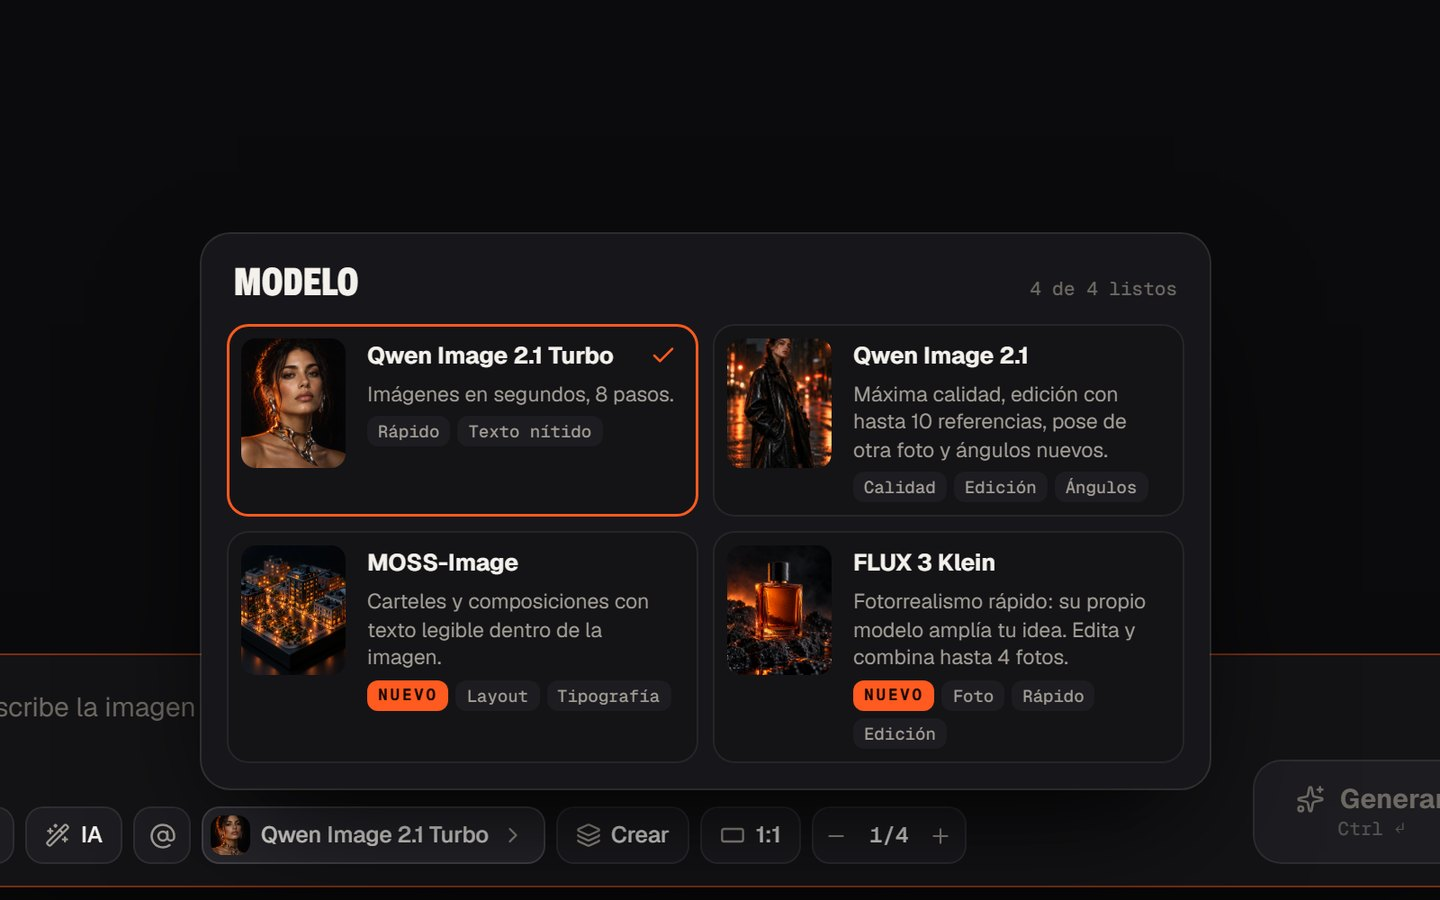
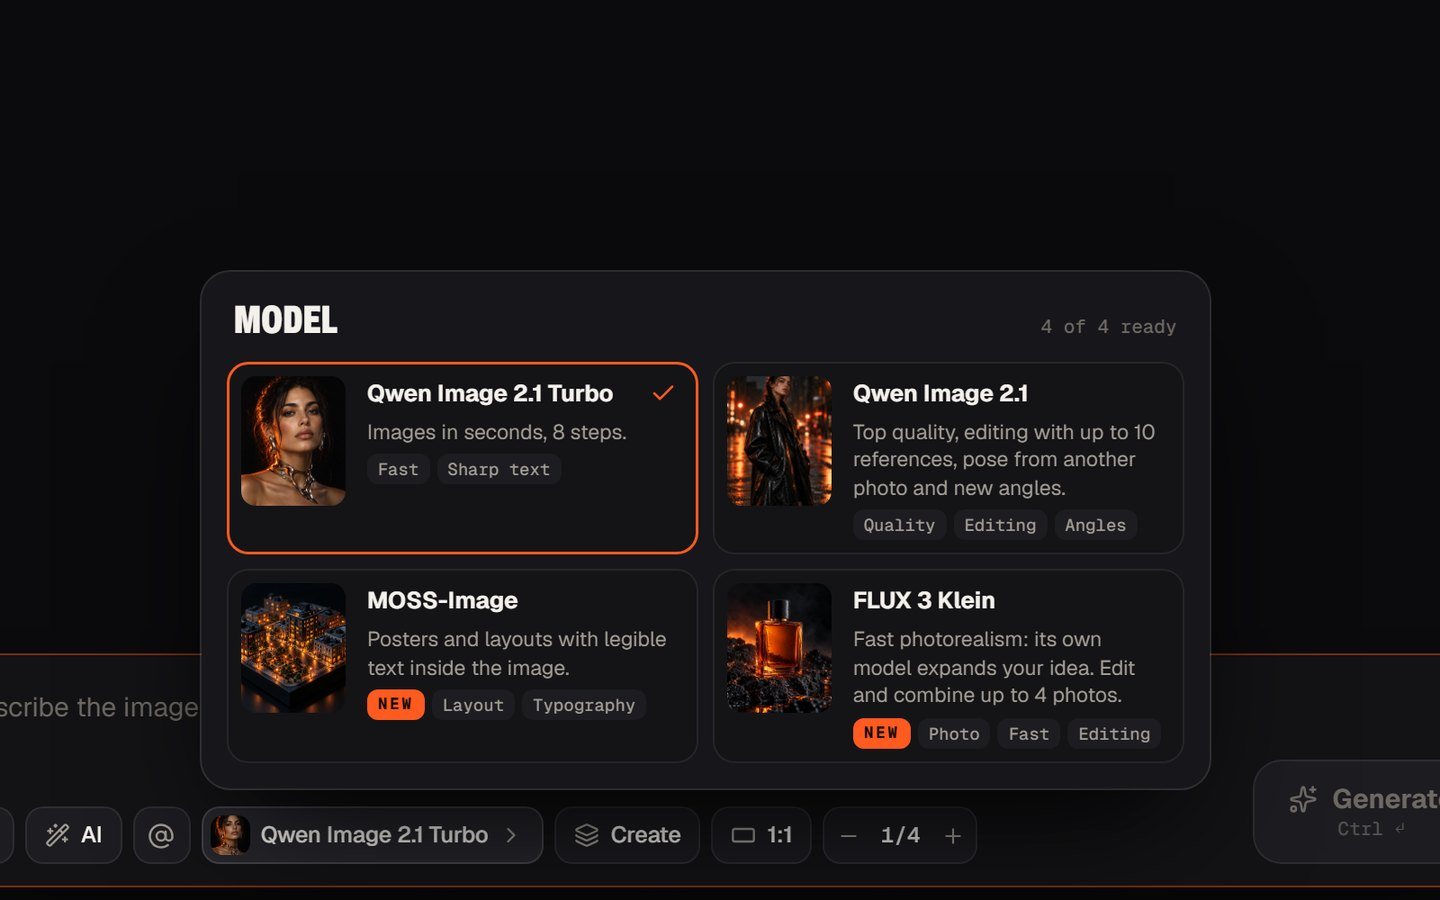
README: English screenshots and the 0.15-0.17 web features
Retake every UI screenshot in English (0.17.0 UI, demo data from
scripts/dev-qa.cjs) and bring the README up to date: English/Spanish UI,
the AI prompt button and drag-and-drop, the English menu names (AI,
Account > MCP connections) and links to the latest release notes.

diff --git a/README.md b/README.md
@@ -57,8 +57,10 @@ and an MCP server exposes the studio to Claude and other MCP clients.
 
 Plus: a persistent **library** of everything you make, private **characters** you can call with
 `@name` in any prompt, a per-account **LoRA library** (paste a Hugging Face or Civitai link;
-Qwen-Image 2.1 and MiniMax H3 LoRAs are detected and verified), live job progress, and
-invitation-only accounts with TOTP.
+Qwen-Image 2.1 and MiniMax H3 LoRAs are detected and verified), an **AI** button that turns
+a short idea into a model-ready prompt with your LLM provider and that model's guide (FLUX 3
+Klein and Stable Audio 3 use their own official upsamplers instead), drag-and-drop references,
+live job progress, invitation-only accounts with TOTP, and a web UI in **English and Spanish**.
 
 ## Gallery
 
@@ -78,8 +80,8 @@ invitation-only accounts with TOTP.
   </tr>
 </table>
 
-<sub>Screenshots of the real interface with demo data. The studio UI is in Spanish; the API, agent
-guides and MCP server are in English.</sub>
+<sub>Screenshots of the real interface in English, with demo data. The UI also speaks Spanish
+(switch in the account menu); the API, agent guides and MCP server are in English.</sub>
 
 ## Models
 
@@ -145,7 +147,7 @@ unloaded after a short idle period so the cards can be shared with other workloa
 
 ### The agent
 
-Turn on **IA** in the creator, or open the agent, and describe the result you want. The agent
+Turn on **AI** in the creator, or open the agent, and describe the result you want. The agent
 uses an **OpenAI-compatible chat API that you configure per account** (any provider with tool
 calling; vision is optional and verified). The administrator approves which HTTPS endpoints
 may be used; keys are stored encrypted (AES-256-GCM) and the runtime makes the provider calls on
@@ -161,7 +163,7 @@ asks before resuming work or cloning a voice.
 Every account can expose its own studio to MCP clients at `https://<your-origin>/mcp`
 (Streamable HTTP, personal Bearer tokens):
 
-1. In the web app open **Cuenta → Conexiones MCP**, enable MCP and create a token with an
+1. In the web app open **Account → MCP connections**, enable MCP and create a token with an
    expiry and scopes: `read` (required), `create`, `agent`, `delete`.
 2. Copy the token once — only its SHA-256 digest is stored.
 3. Add the server to your client. With Claude Code:
@@ -357,7 +359,7 @@ cd services/runtime && python -m venv .venv && .venv/bin/pip install -e ".[dev]"
 
 `apps/web/scripts/dev-qa.cjs` serves the UI against disposable fixtures (no GPUs, no
 credentials). Release notes and validation records live in [`docs/`](docs)
-([0.13.0](docs/RELEASE-0.13.0.md), [0.12.0](docs/RELEASE-0.12.0.md), …); the reference host's
+([0.17.0](docs/RELEASE-0.17.0.md), [0.16.0](docs/RELEASE-0.16.0.md), …); the reference host's
 manual reinstall guide is [`docs/REINSTALL.md`](docs/REINSTALL.md).
 
 ## En español
@@ -365,7 +367,7 @@ manual reinstall guide is [`docs/REINSTALL.md`](docs/REINSTALL.md).
 **Media Lab** es un estudio creativo autoalojado: imágenes, vídeo con audio, canciones, música
 instrumental, efectos y voz con modelos abiertos que corren en tus GPUs, con agente y servidor
 MCP. Está pensado para uso personal y no comercial (tú y tus amigos), con cuentas privadas por
-invitación y 2FA. La interfaz está en español.
+invitación y 2FA. La interfaz está en inglés y español.
 
 Instalación rápida en un servidor Linux con Docker, NVIDIA Container Toolkit y una o más GPUs de
 24 GB (probado con 2× RTX 3090; cada GPU corre su propio worker y cada trabajo usa una sola):
